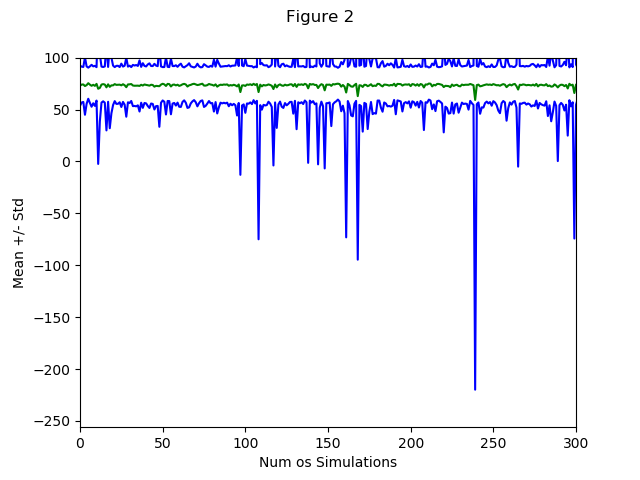
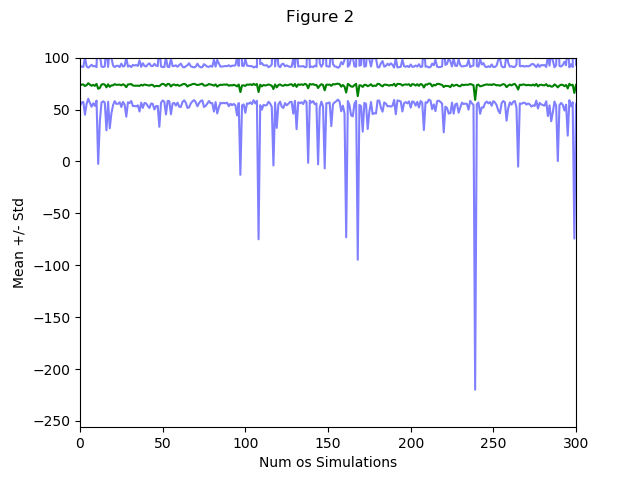
add 2nd experiment

Changed region(s): [[0.125, 0.1875, 0.9062, 0.8125], [0.125, 0.125, 0.9062, 0.1562]]

diff --git a/ML4T_2020Spring/martingale/martingale.py b/ML4T_2020Spring/martingale/martingale.py
@@ -44,26 +44,43 @@ def get_spin_result(win_prob):
 		result = True
 	return result
 
-def simulate(win_prob):
+def simulate(win_prob, bankroll = None):
 	winnings = np.array([0])
 	episode_winnings = 0
+	max_bankroll = False
 
 	for i in range(1000):
-		while episode_winnings < 80:
+		while episode_winnings < 80 and max_bankroll is False:
 			won = False
 			bet_amount = 1
+			
 			while won == False:
-				#bet_amount = bet_amount * 2
+
+				if bankroll is not None and bet_amount > bankroll:
+					print('bet is more than bankroll')
+					bet_amount = bankroll
+	
 				won = get_spin_result(win_prob)
 				if won == True:
 					episode_winnings = episode_winnings + bet_amount
 				else:
 					episode_winnings = episode_winnings - bet_amount
 					bet_amount = bet_amount * 2
+
+				if bankroll is not None and episode_winnings <= -bankroll:
+					#print('max bankroll reached')
+					max_bankroll = True
+					break;
+
 				winnings = np.append(winnings, np.array([episode_winnings]))
 
-		winnings = np.append(winnings, np.array([80]))
-	
+		if max_bankroll is True:
+			winnings = np.append(winnings, np.array([-bankroll]))
+		else:
+			winnings = np.append(winnings, np.array([80]))
+
+	#print(winnings)
+	#print(np.min(winnings))
 	return winnings
 
 def test_code():
@@ -89,23 +106,23 @@ def test_code():
 		ax.set_ylim([-256, 100])
 
 	plt.savefig('ML4T_2020Spring/martingale/figure_1.png')
-
+	
 	"""""""""""""""
 	"	Figure 2  "
 	"""""""""""""""
 	fig2, ax2 = plt.subplots(1, 1)
 	fig2.suptitle('Figure 2')
-	mean = np.array([])
-	std = np.array([])
+	mean2 = np.array([])
+	std2 = np.array([])
 	for i in range(1000):
-		sim = simulate(win_prob)
-		mean = np.append(mean, np.array([np.mean(sim)]))
-		std = np.append(std, np.array([np.std(sim)]))
+		sim2 = simulate(win_prob)
+		mean2 = np.append(mean2, np.array([np.mean(sim2)]))
+		std2 = np.append(std2, np.array([np.std(sim2)]))
 
-	xs = range(len(mean))
-	ax2.plot(xs, mean, c='g')
-	ax2.plot(xs, mean+std, c='b')
-	ax2.plot(xs, mean-std, c='b')
+	xs2 = range(len(mean2))
+	ax2.plot(xs2, mean2, c='g')
+	ax2.plot(xs2, mean2+std2, c='b', alpha=0.5)
+	ax2.plot(xs2, mean2-std2, c='b', alpha=0.5)
 	ax2.set_xlabel('Num os Simulations')
 	ax2.set_ylabel('Mean +/- Std')
 	ax2.set_xlim([0, 300])
@@ -117,22 +134,68 @@ def test_code():
 	"""""""""""""""
 	fig3, ax3 = plt.subplots(1, 1)
 	fig3.suptitle('Figure 3')
-	median = np.array([])
-	std = np.array([])
+	median3 = np.array([])
+	std3 = np.array([])
 	for i in range(1000):
-		sim = simulate(win_prob)
-		median = np.append(median, np.array([np.median(sim)]))
-		std = np.append(std, np.array([np.std(sim)]))
+		sim3 = simulate(win_prob)
+		median3 = np.append(median3, np.array([np.median(sim3)]))
+		std3 = np.append(std3, np.array([np.std(sim3)]))
 
-	xs = range(len(median))
-	ax3.plot(xs, median, c='g')
-	ax3.plot(xs, median+std, c='b')
-	ax3.plot(xs, median-std, c='b')
+	xs3 = range(len(median3))
+	ax3.plot(xs3, median3, c='g')
+	ax3.plot(xs3, median3+std3, c='b', alpha=0.5)
+	ax3.plot(xs3, median3-std3, c='b', alpha=0.5)
 	ax3.set_xlabel('Num os Simulations')
 	ax3.set_ylabel('Median +/- Std')
 	ax3.set_xlim([0, 300])
 	ax3.set_ylim([-256, 100])
 	plt.savefig('ML4T_2020Spring/martingale/figure_3.png')
 
+
+	"""""""""""""""
+	"	Figure 4  "
+	"""""""""""""""
+	fig4, ax4 = plt.subplots(1, 1)
+	fig4.suptitle('Figure 4')
+	mean4 = np.array([])
+	std4 = np.array([])
+	for i in range(1000):
+		sim4 = simulate(win_prob, 256)
+		mean4 = np.append(mean4, np.array([np.mean(sim4)]))
+		std4 = np.append(std4, np.array([np.std(sim4)]))
+
+	xs4 = range(len(mean4))
+	ax4.plot(xs4, mean4, c='g')
+	ax4.plot(xs4, mean4+std4, c='b', alpha=0.5)
+	ax4.plot(xs4, mean4-std4, c='b', alpha=0.5)
+	ax4.set_xlabel('Num os Simulations')
+	ax4.set_ylabel('Mean +/- Std')
+	ax4.set_xlim([0, 300])
+	ax4.set_ylim([-256, 100])
+	plt.savefig('ML4T_2020Spring/martingale/figure_4.png')
+	
+	"""""""""""""""
+	"	Figure 5  "
+	"""""""""""""""
+	fig5, ax5 = plt.subplots(1, 1)
+	fig5.suptitle('Figure 5')
+	median5 = np.array([])
+	std5 = np.array([])
+	for i in range(1000):
+		sim5 = simulate(win_prob, 256)
+		median5 = np.append(median5, np.array([np.median(sim5)]))
+		std5 = np.append(std5, np.array([np.std(sim5)]))
+
+	xs5 = range(len(median5))
+	ax5.plot(xs5, median5, c='g')
+	ax5.plot(xs5, median5+std5, c='b', alpha=0.5)
+	ax5.plot(xs5, median5-std5, c='b', alpha=0.5)
+	ax5.set_xlabel('Num os Simulations')
+	ax5.set_ylabel('Median +/- Std')
+	ax5.set_xlim([0, 300])
+	ax5.set_ylim([-256, 100])
+	plt.savefig('ML4T_2020Spring/martingale/figure_5.png')
+
+	
 if __name__ == "__main__":  		  	   		     			  		 			     			  	  		 	  	 		 			  		  			
     test_code()  		  	   		     			  		 			     			  	  		 	  	 		 			  		  			
